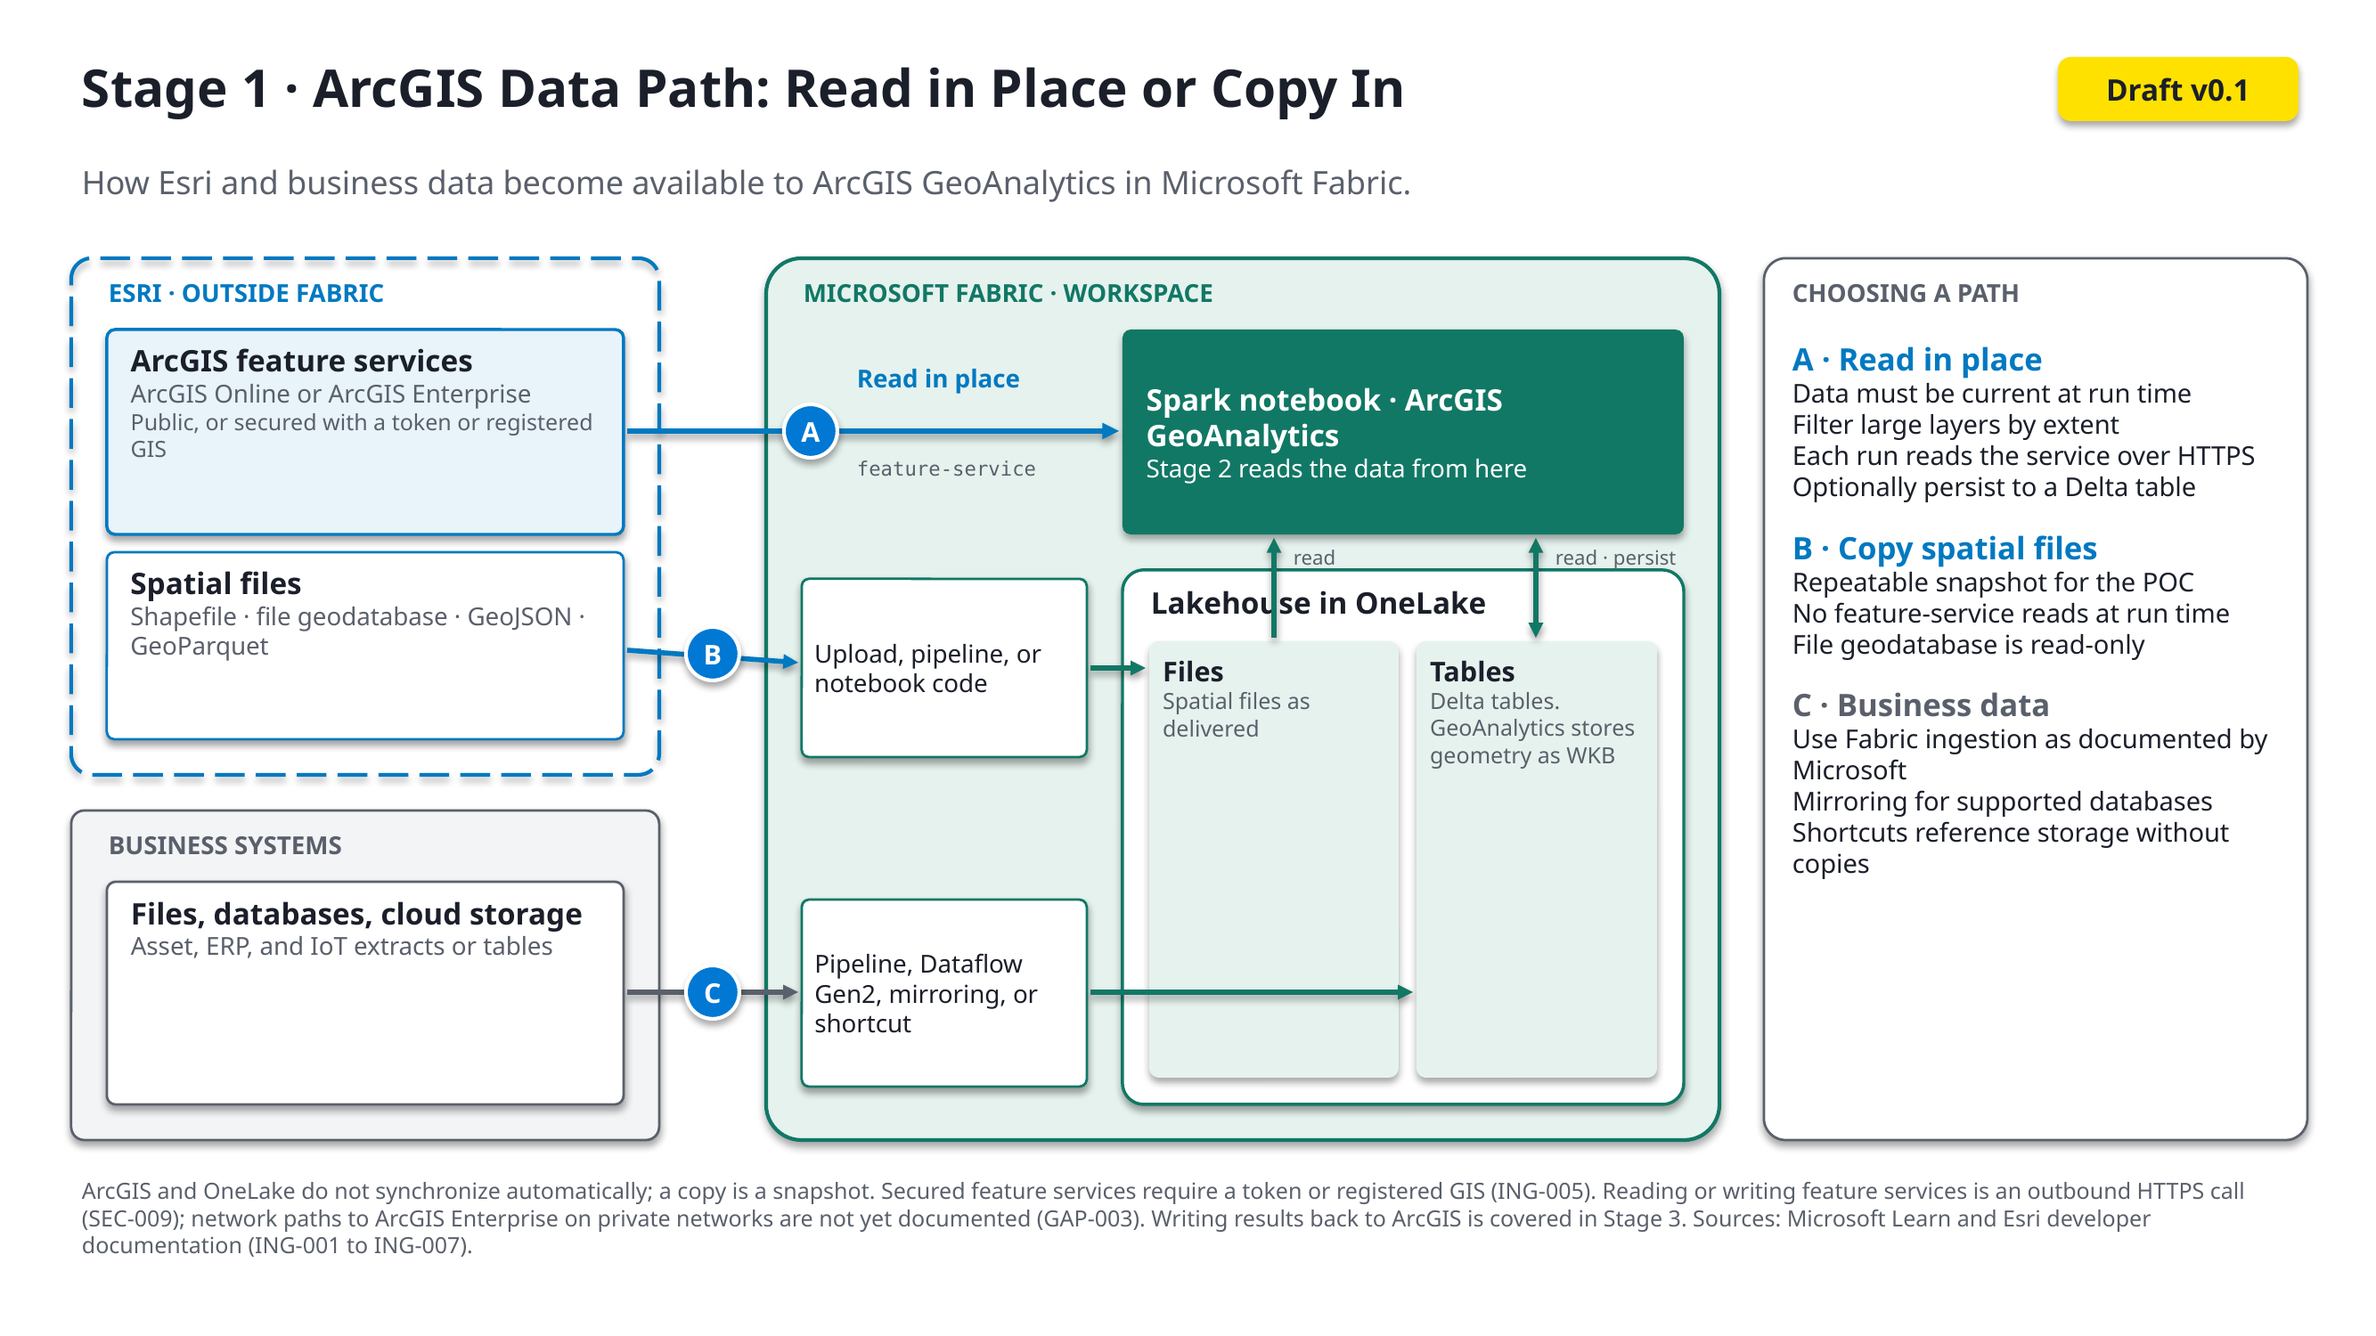
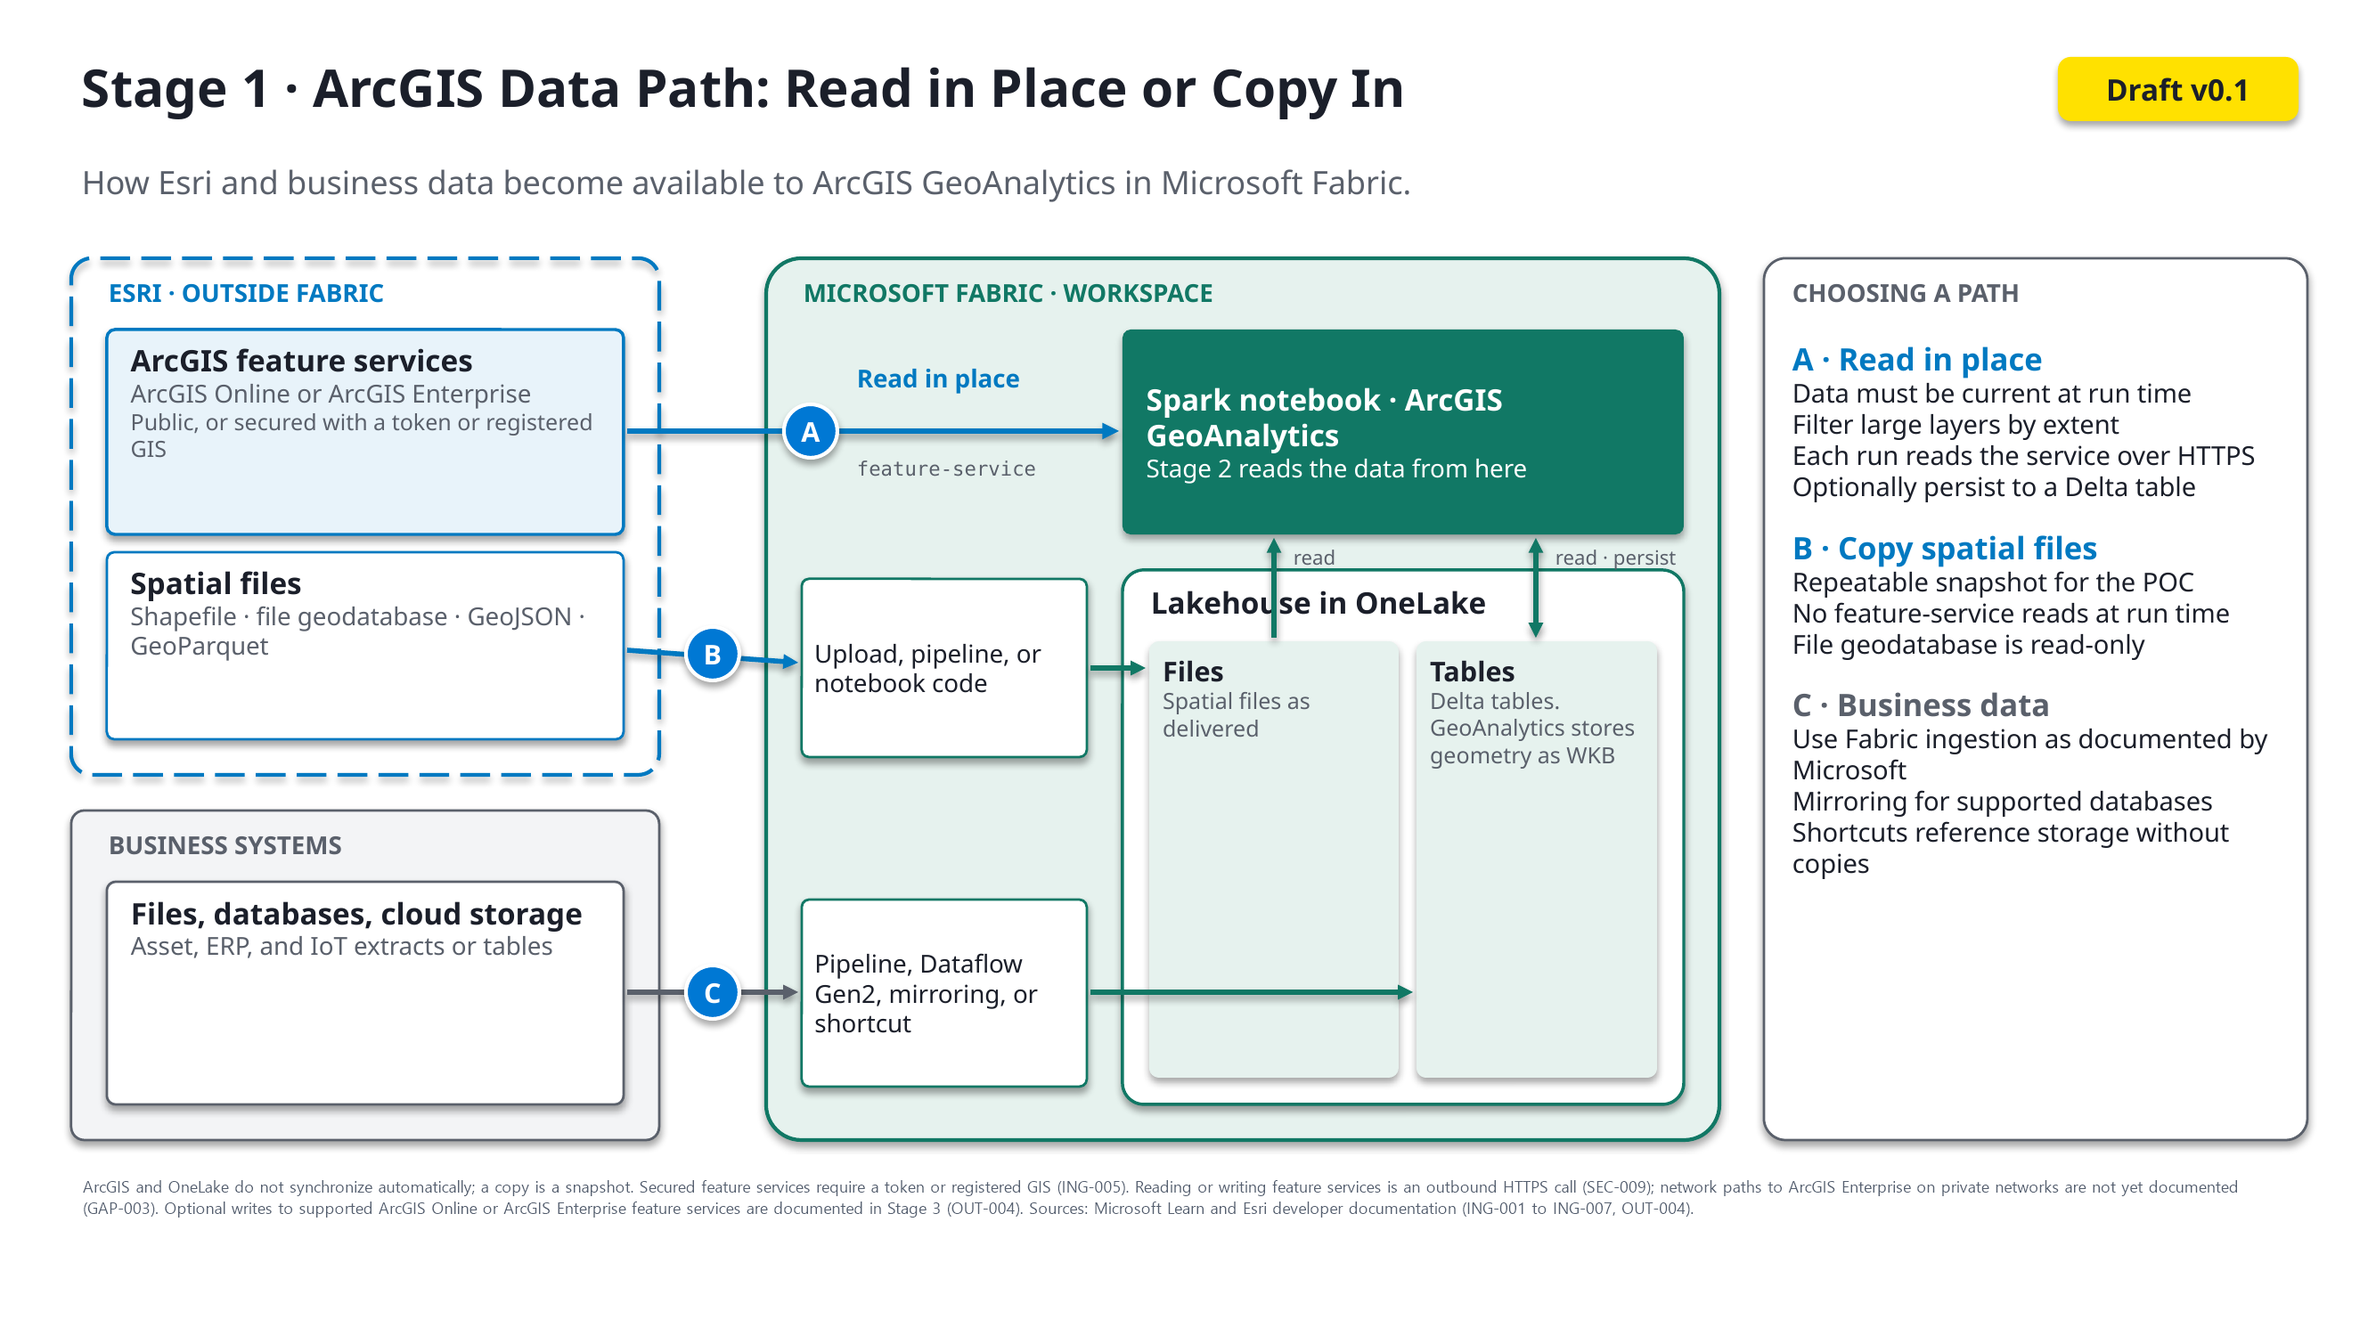
docs(docs): validate Stage 3 output paths
- document supported Fabric, Power BI, Maps, and ArcGIS outputs
- add authoritative sources and OUT-001 through OUT-004 evidence
- align validation criteria, status language, and diagram guidance

📚 - Generated by Copilot

Changed region(s): [[0.0311, 0.8893, 0.9336, 0.9507]]

diff --git a/02-GeoAnalytics-for-Fabric/05-Stage-3-Use-the-Results.md b/02-GeoAnalytics-for-Fabric/05-Stage-3-Use-the-Results.md
@@ -12,22 +12,23 @@ Deliver the spatially enriched output through the experience that best answers t
 
 ## Flow
 
-1. **Confirm where the output lives.** Typically a lakehouse table in OneLake, or an approved ArcGIS location.
-2. **Select the consumption experience.** Choose based on the audience and the question.
-3. **Validate access and security.** Confirm who can view the output and through which experience.
-4. **Measure against success criteria.** Confirm the output answers the business question defined in the proof of concept.
+1. **Confirm the output.** Identify whether the enriched result is a Spark DataFrame, a Fabric lakehouse or Delta table, or a supported ArcGIS feature service.
+2. **Persist the result.** Write the DataFrame to a supported Fabric data item, or explicitly write it to an ArcGIS Online or ArcGIS Enterprise feature service.
+3. **Select the consumption experience.** Choose based on the audience and the business question.
+4. **Validate access and refresh behavior.** Confirm identity, permissions, network access, and how reruns replace, append, or update the output.
+5. **Measure against success criteria.** Confirm the output answers the business question defined in the proof of concept.
 
 ## Selecting a Consumption Experience
 
 As noted in the Customer Guidance, these experiences are related but **not interchangeable**.
 
-| Audience and need | Experience | Role |
-|---|---|---|
-| Business users who need location-aware reporting | **ArcGIS for Power BI** | Location-aware visualization and analysis within Power BI reports |
-| Fabric users who need map-based exploration | **ArcGIS Maps for Microsoft Fabric** | Mapping and spatial visualization within Fabric experiences |
-| GIS users and operational applications | **ArcGIS application** | Use of the output within approved ArcGIS experiences |
-| Data teams building further analytics | **Approved Fabric data product** | Reuse of the enriched data across Fabric workloads |
-| AI or agent scenarios | **Separately validated reference pattern** | Not part of the current GeoAnalytics architecture; see [Scope and Boundaries](01-Customer-Guidance.md#scope-and-boundaries) |
+| Audience and need | Experience | Supported path | Evidence |
+|---|---|---|---|
+| Business users who need location-aware reporting | **ArcGIS for Power BI** | Expose the Fabric output through a Power BI semantic model or report, then add the ArcGIS visual | OUT-002 |
+| Fabric users who need map-based exploration | **ArcGIS Maps for Microsoft Fabric** | Load the supported Fabric or OneLake output through the documented Maps for Fabric workflow | OUT-003 |
+| GIS users and operational applications | **ArcGIS Online or ArcGIS Enterprise application** | Explicitly write the supported DataFrame to a feature service, then consume that service in the approved ArcGIS application | OUT-004 |
+| Data teams building further analytics | **Approved Fabric data product** | Persist the output to a supported Fabric data item for downstream workloads | OUT-001 |
+| AI or agent scenarios | **Separately validated reference pattern** | Validate separately; this path is outside the current GeoAnalytics architecture | [Scope and Boundaries](01-Customer-Guidance.md#scope-and-boundaries) |
 
 ## Architecture
 
@@ -37,22 +38,40 @@ As noted in the Customer Guidance, these experiences are related but **not inter
 
 ```mermaid
 flowchart LR
-    OUT[("Spatially enriched output<br/>OneLake or approved ArcGIS location")]
-    OUT --> PBI["ArcGIS for Power BI"]
-    OUT --> MAPS["ArcGIS Maps for<br/>Microsoft Fabric"]
-    OUT --> APP["ArcGIS application"]
-    OUT --> DP["Approved Fabric<br/>data product"]
+    OUT["Spatially enriched<br/>Spark DataFrame"]
+    OUT -->|"Persist (OUT-001)"| FABRIC[("Fabric data item<br/>Lakehouse or Delta table")]
+    OUT -->|"Explicit write (OUT-004)"| FS["ArcGIS Online or Enterprise<br/>feature service"]
+    FABRIC --> PBI["ArcGIS for Power BI<br/>(OUT-002)"]
+    FABRIC --> MAPS["ArcGIS Maps for<br/>Microsoft Fabric (OUT-003)"]
+    FABRIC --> DP["Approved Fabric<br/>data product"]
+    FS --> APP["Approved ArcGIS<br/>application"]
 ```
 
 ## Guidance
 
-- ArcGIS for Power BI → *add Esri/Microsoft link*
-- ArcGIS Maps for Microsoft Fabric → *add link*
-- Publishing or sharing to ArcGIS → *add Esri link; confirm the supported path*
+- Use [Create ArcGIS Maps for Power BI](https://learn.microsoft.com/en-us/power-bi/visuals/power-bi-visualization-arcgis) and Esri's [ArcGIS for Power BI introduction](https://doc.arcgis.com/en/power-bi/get-started/introduction.htm) for Power BI reports.
+- Use the [ArcGIS for Microsoft Fabric product documentation](https://www.esri.com/en-us/arcgis/products/arcgis-for-microsoft/arcgis-for-microsoft-fabric) and [ArcGIS Maps for Microsoft Fabric quick start guide](https://www.esri.com/content/dam/esrisites/en-us/media/pdf/implementation-guides/maps-for-fabric-quick-start-guide.pdf) for map-based exploration in Fabric.
+- Use the GeoAnalytics [feature service data source](https://developers.arcgis.com/geoanalytics-fabric/data/data-sources/feature-service/) guidance to explicitly write supported results to ArcGIS Online or ArcGIS Enterprise.
+
+Writing to a feature service is an explicit outbound operation initiated by customer code. It is not automatic synchronization between ArcGIS and OneLake. Validate ArcGIS authorization, service capabilities, create or update permissions, and customer network policy before selecting this path (OUT-004, SEC-005, SEC-009).
+
+### Validation Checklist
+
+- [ ] The intended audience can access the selected experience.
+- [ ] The expected records, location fields, and geometry are present.
+- [ ] Power BI, Fabric, and ArcGIS identities and permissions are approved.
+- [ ] Refresh or rerun behavior is defined as replace, append, or update.
+- [ ] External feature-service writes are permitted by customer network policy.
+- [ ] Sharing does not grant broader access than the proof of concept requires.
+- [ ] The experience satisfies the proof-of-concept success criteria.
+
+## Definition of a Validated Consumption Experience
+
+A consumption experience is validated when the documented path is configured, the intended audience can access it, the expected spatial output is present, and refresh or publication behavior has been tested against the proof-of-concept success criteria.
 
 ## Handoff
 
-**Stage 3 produces** a validated customer outcome measured against the proof-of-concept success criteria. Results inform the production design or the next iteration of the scenario.
+**Stage 3 produces** a validated customer outcome through an evidence-backed consumption path. Results inform the production design or the next iteration of the scenario.
 
 ---
 

diff --git a/02-GeoAnalytics-for-Fabric/records/Source-Register.md b/02-GeoAnalytics-for-Fabric/records/Source-Register.md
@@ -27,6 +27,10 @@ This register tracks authoritative sources used to support architecture, capabil
 | SRC-GEO-012 | Esri direct confirmation to Microsoft partner: GeoAnalytics outbound calls and network requirements (2026-10-06) | Esri | Direct Confirmation | No public URL | Active |
 | SRC-GEO-013 | Visualize results with st.plot() | Esri | Product Documentation | https://developers.arcgis.com/geoanalytics-fabric/tutorials/visualize/visualize-results-st-plot/ | Active |
 | SRC-GEO-014 | Esri at FABCON 2026: ArcGIS for Microsoft Fabric (GeoAnalytics generally available; ArcGIS Maps for Fabric public preview as of 2026-02-18) | Esri | Announcement | https://www.esri.com/arcgis-blog/products/arcgis/announcements/esri-at-fabcon-2026-arcgis-for-microsoft-fabric | Active (Maps for Fabric status superseded by SRC-MSFT-017) |
+| SRC-GEO-015 | ArcGIS for Microsoft Fabric | Esri | Product Documentation | https://www.esri.com/en-us/arcgis/products/arcgis-for-microsoft/arcgis-for-microsoft-fabric | Active |
+| SRC-GEO-016 | ArcGIS Maps for Microsoft Fabric Quick Start Guide | Esri | Implementation Guidance | https://www.esri.com/content/dam/esrisites/en-us/media/pdf/implementation-guides/maps-for-fabric-quick-start-guide.pdf | Active |
+| SRC-GEO-017 | Introduction to ArcGIS for Power BI | Esri | Product Documentation | https://doc.arcgis.com/en/power-bi/latest/get-started/introduction-to-arcgis-for-power-bi.htm | Active |
+| SRC-GEO-018 | Configure ArcGIS for Power BI | Esri | Implementation Guidance | https://doc.arcgis.com/en/power-bi/latest/get-started/configure-arcgis-for-power-bi.htm | Active |
 | SRC-MSFT-004 | ArcGIS GeoAnalytics for Microsoft Fabric (Generally Available) | Microsoft | Product Documentation | https://learn.microsoft.com/en-us/fabric/data-engineering/spark-arcgis-geoanalytics | Active |
 | SRC-MSFT-005 | Options to Get Data into the Lakehouse | Microsoft | Ingestion Guidance | https://learn.microsoft.com/en-us/fabric/data-engineering/load-data-lakehouse | Active |
 | SRC-MSFT-006 | Choose a Data Movement Strategy | Microsoft | Decision Guide | https://learn.microsoft.com/en-us/fabric/data-factory/decision-guide-data-movement | Active |
@@ -41,6 +45,7 @@ This register tracks authoritative sources used to support architecture, capabil
 | SRC-MSFT-015 | Tenant Settings Index - Microsoft Fabric | Microsoft | Administration | https://learn.microsoft.com/en-us/fabric/admin/tenant-settings-index | Active |
 | SRC-MSFT-016 | Microsoft Fabric workloads - Azure Well-Architected Framework (architecture diagram and pillar guidance) | Microsoft | Reference Architecture | https://learn.microsoft.com/en-us/azure/well-architected/microsoft-fabric/overview | Active |
 | SRC-MSFT-017 | What's new in Microsoft Fabric: ArcGIS Maps for Fabric (Generally Available), September 2026 | Microsoft | Release Notes | https://learn.microsoft.com/en-us/fabric/fundamentals/whats-new | Active |
+| SRC-MSFT-018 | Create ArcGIS Maps for Power BI | Microsoft | Implementation Guidance | https://learn.microsoft.com/en-us/power-bi/visuals/power-bi-visualization-arcgis | Active |
 
 ---
 
@@ -71,7 +76,7 @@ The following do not qualify as authoritative architecture sources:
 
 ## Last Review Date
 
-2026-10-06
+2026-10-07
 
 ## Component Owner
 

diff --git a/02-GeoAnalytics-for-Fabric/records/Evidence.md b/02-GeoAnalytics-for-Fabric/records/Evidence.md
@@ -32,6 +32,10 @@ This document records architecture statements and links them to authoritative so
 | SEC-007 | GeoAnalytics outbound calls go over HTTPS on port 443 to the arcgis.com domain, under `/sharing/rest`: OAuth authorization (`/sharing/rest/oauth2`) and periodic usage reporting (`/sharing/rest/portals/self/usage`). | SRC-GEO-012 | Esri direct confirmation | Supported (Esri direct confirmation, 2026-10-06) |
 | SEC-008 | `st.plot()` retrieves basemap tiles from Esri when a basemap is requested (for example `basemap="light"`); this is an outbound call triggered by the user's code. | SRC-GEO-012; SRC-GEO-013 | Esri direct confirmation; Visualize results with st.plot() | Supported |
 | SEC-009 | Analysis functions and tools make no implicit calls to other ArcGIS services; outbound calls are limited to authorization, usage reporting, user-requested feature-service reads and writes, and basemap tiles for plotting. | SRC-GEO-012; SRC-GEO-010 | Esri direct confirmation; GeoAnalytics FAQ | Supported (Esri direct confirmation, 2026-10-06) |
+| OUT-001 | A spatially enriched Spark DataFrame can be persisted to supported Fabric data items, including Delta tables in a lakehouse. | SRC-MSFT-004; SRC-GEO-004 | ArcGIS GeoAnalytics for Microsoft Fabric (Microsoft Learn); GeoAnalytics Data Sources | Supported |
+| OUT-002 | Fabric output exposed through a Power BI semantic model or report can be visualized with ArcGIS for Power BI. | SRC-MSFT-018; SRC-GEO-017; SRC-GEO-018 | Create ArcGIS Maps for Power BI; Introduction to ArcGIS for Power BI; Configure ArcGIS for Power BI | Supported |
+| OUT-003 | ArcGIS Maps for Microsoft Fabric can visualize supported Fabric and OneLake data through its documented data-loading workflow. | SRC-GEO-015; SRC-GEO-016; SRC-MSFT-017 | ArcGIS for Microsoft Fabric; ArcGIS Maps for Microsoft Fabric Quick Start Guide; Microsoft Fabric release notes | Supported |
+| OUT-004 | GeoAnalytics can explicitly write supported Spark DataFrame results to an ArcGIS Online or ArcGIS Enterprise feature service; authorization, service capabilities, and permissions apply. | SRC-GEO-004; SRC-GEO-005 | GeoAnalytics Data Sources; GeoAnalytics Feature Service | Supported |
 
 ---
 
@@ -47,7 +51,7 @@ This document records architecture statements and links them to authoritative so
 
 ## Last Review Date
 
-2026-10-06
+2026-10-07
 
 ## Owner
 

diff --git a/02-GeoAnalytics-for-Fabric/02-End-to-End-Scenario.md b/02-GeoAnalytics-for-Fabric/02-End-to-End-Scenario.md
@@ -48,6 +48,8 @@ flowchart LR
 | [2. Spatial processing with GeoAnalytics](04-Stage-2-Spatial-Processing.md) | "Once it is in Fabric, how does spatial analysis work?" | A spatially enriched Spark DataFrame, persisted to an approved location |
 | [3. Use the results](05-Stage-3-Use-the-Results.md) | "What can we do with the output?" | A validated consumption experience for the business question |
 
+A consumption experience is validated when the documented path is configured, the intended audience can access it, the expected spatial output is present, and refresh or publication behavior has been tested against the proof-of-concept success criteria.
+
 **Example business question (replace per customer):** *Which assets are located within a defined distance of a risk area, and how does exposure vary by region?*
 
 ---

diff --git a/02-GeoAnalytics-for-Fabric/03-Stage-1-Bring-Data-into-Fabric.md b/02-GeoAnalytics-for-Fabric/03-Stage-1-Bring-Data-into-Fabric.md
@@ -78,6 +78,8 @@ The Microsoft reference architecture describes multiple ingestion patterns. Sele
 
 ![Stage 1 ArcGIS Data Path: Read in Place or Copy In](images/stage-1-arcgis-data-path.png)
 
+The diagram's reference to writing results back to ArcGIS means an explicit write to a supported ArcGIS Online or ArcGIS Enterprise feature service. [Stage 3](05-Stage-3-Use-the-Results.md) documents this optional output path (OUT-004); it does not imply automatic synchronization or support for every ArcGIS destination.
+
 Three documented paths make data available to GeoAnalytics:
 
 - **A · Read in place:** GeoAnalytics reads ArcGIS Online or ArcGIS Enterprise feature services directly into a Spark DataFrame, optionally persisting the result to a Delta table (ING-005).

diff --git a/02-GeoAnalytics-for-Fabric/README.md b/02-GeoAnalytics-for-Fabric/README.md
@@ -40,6 +40,8 @@ This component answers:
 
 Published Product Architecture
 
+Product-supported paths are backed by the [Evidence register](records/Evidence.md). Customer-specific identity, networking, access, and production deployment choices require validation.
+
 ## Related Components
 
 - Fabric Platform
